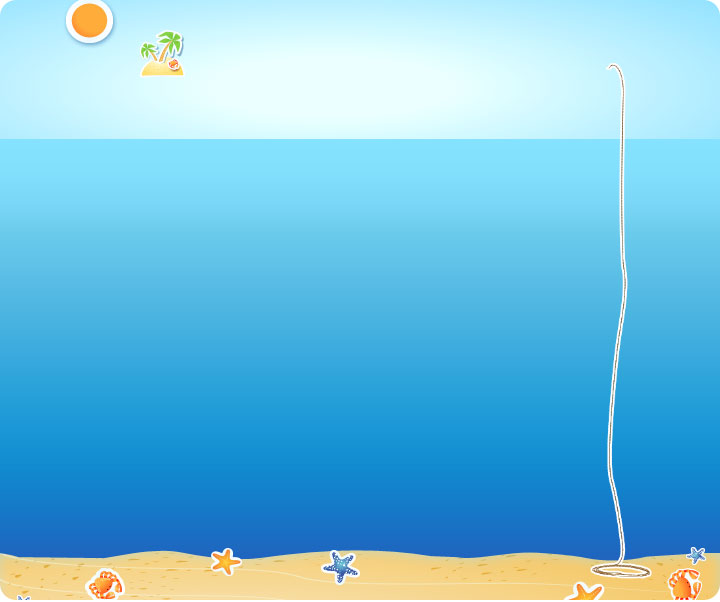
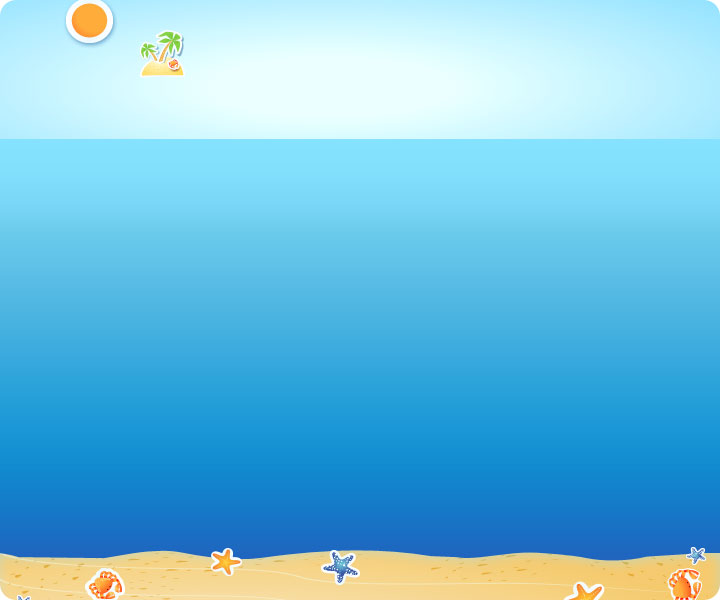
background

diff --git a/js/gameunit.js b/js/gameunit.js
@@ -1,12 +1,86 @@
-function gameUnit()
+function backgroundUnit()
 {
 	var newImage = function (path) {
 		var image = new Image();
 		image.src = path;
 		return image;
 	}
+
+	this.buffer = {}
+
 	this.wave1 = newImage('images/wave1.png');
 	this.wave2 = newImage('images/wave2.png');
 	this.wave3 = newImage('images/wave3.png');
+
+	this.cloud = newImage('images/cloud.png');
+	this.clouds = newImage('images/clouds.png');
+	this.clouds8 = newImage('images/clouds8.png');
+	this.cloudss = newImage('images/cloudss.png');
+
+	this.fishes75x50 = newImage('images/fishes75-50.png');
+	this.fishes75x50r = newImage('images/fishes75-50r.png');
+
+	this.fishes75x100 = newImage('images/fishes75-100.png');
+	this.fishes75x100r = newImage('images/fishes75-100r.png');
+
+	this.fishes50x75 = newImage('images/fishes50-75.png');
+	this.fishes50x75r = newImage('images/fishes50-75r.png');
+
+	this.fishes2 = newImage('images/fishes2.png');
+	this.fishes2r = newImage('images/fishes2r.png');
+
+
+	this.shipEmpty = newImage('images/ship-empty.png');
+	this.tros = newImage('images/tros.png');
+
+	this.fishXY = function(iterator, vx, vy, w, h)
+	{
+		this.x = Math.abs(iterator*vx % (w + 100) * 2 - (w + 100)) - 100;
+		this.y = Math.abs(iterator*vy % (h - 320) * 2 - (h - 320)) + 200;
+	}
+
+	this.renderBackground = function(ctx, iterator)
+	{
+		//var delta = (date.getSeconds() * 1000 + date.getMilliseconds())/ 10;
+		var waveDelta = Math.abs(iterator/2 % 25);
+
+		ctx.drawImage(this.wave1, waveDelta - 25, 66);
+		ctx.drawImage(this.wave2, -waveDelta, 80);
+		var cloudIterator = iterator + 1000;
+
+		ctx.drawImage(this.cloudss, cloudIterator/1.6 % (ctx.canvas.width + 150) - 75, 0);
+		ctx.drawImage(this.clouds, cloudIterator/1.4 % (ctx.canvas.width + 100) - 75, 5);
+		ctx.drawImage(this.cloud, cloudIterator/1.3 % (ctx.canvas.width + 100) - 75, 8);
+		ctx.drawImage(this.clouds, cloudIterator/1.2 % (ctx.canvas.width + 75) - 75, 15);
+		ctx.drawImage(this.clouds8, cloudIterator % (ctx.canvas.width + 75) - 75, 25);
+		ctx.drawImage(this.shipEmpty, 512, Math.abs(iterator/4 % 4 - 2));
+		ctx.drawImage(this.wave3, waveDelta - 25, 94);
+
+		var fishPosition = new this.fishXY(iterator + 300, .5, .3, ctx.canvas.width, ctx.canvas.height);
+		ctx.drawImage(this.buffer['fish0'] > fishPosition.x ? this.fishes75x50 : this.fishes75x50r, fishPosition.x, fishPosition.y);
+		this.buffer['fish0'] = fishPosition.x;
+
+		fishPosition = new this.fishXY(iterator, 1.5, .5, ctx.canvas.width, ctx.canvas.height);
+		ctx.drawImage(this.buffer['fish1'] > fishPosition.x ? this.fishes50x75 : this.fishes50x75r, fishPosition.x, fishPosition.y);
+		this.buffer['fish1'] = fishPosition.x;
+
+		fishPosition = new this.fishXY(iterator + 500, 1, .7, ctx.canvas.width, ctx.canvas.height);
+		ctx.drawImage(this.buffer['fish2'] > fishPosition.x ? this.fishes50x75 : this.fishes50x75r, fishPosition.x, fishPosition.y);
+		this.buffer['fish2'] = fishPosition.x;
+
+		fishPosition = new this.fishXY(iterator + 100, 2, .2, ctx.canvas.width, ctx.canvas.height);
+		ctx.drawImage(this.buffer['fish3'] > fishPosition.x ? this.fishes50x75 : this.fishes50x75r, fishPosition.x, fishPosition.y);
+		this.buffer['fish3'] = fishPosition.x;
+
+		fishPosition = new this.fishXY(iterator + 1000, .5, .3, ctx.canvas.width, ctx.canvas.height);
+		ctx.drawImage(this.buffer['fish4'] > fishPosition.x ? this.fishes75x100 : this.fishes75x100r, fishPosition.x, fishPosition.y);
+		this.buffer['fish4'] = fishPosition.x;
+
+		fishPosition = new this.fishXY(iterator + 1500, .2, .1, ctx.canvas.width, ctx.canvas.height);
+		ctx.drawImage(this.buffer['fish5'] > fishPosition.x ? this.fishes2 : this.fishes2r, fishPosition.x, fishPosition.y);
+		this.buffer['fish5'] = fishPosition.x;
+
+		ctx.drawImage(this.tros, 592, 64);
+	}
 }
 

diff --git a/index.html b/index.html
@@ -6,6 +6,7 @@
 <meta http-equiv="Content-Type" content="text/html; charset=UTF-8">
 <link rel="stylesheet" type="text/css" href="main.css" />
 <script language="javascript" src="js/gameunit.js" type="text/javascript"></script>
+<script language="javascript" src="js/game.js" type="text/javascript"></script>
 </head>
 <body>
 <script>
@@ -15,29 +16,62 @@
 window.onload = function()
 {
 	var iterator = 0;
-	var gu = new gameUnit();
-	var example = document.getElementById("gameCanvas");
-	var ctx = example.getContext('2d');  // Контекст холста
+	var bgu = new backgroundUnit();
+/*
+	var canva = document.getElementById("gameCanvas");
+	var gameContext = canva.getContext('2d');  // Контекст холста
+	gameContext.canvas.width = 716;
+	gameContext.canvas.height = 491;
+	gameContext.clearRect(0, 0, 716, 491);
+
+
+	var gameField = document.getElementById("gameCanvas");
+
+	bgu.cloud.onload = function() {
+		gameContext.clearRect(0, 0, 716, 491);
+		gameContext.drawImage(bgu.cloud, 10, 10, 10, 10);
+		gameContext.drawImage(bgu.cloud, 10, 10, 10, 10);
+		gameField.onclick = function(e){
+			//gameContext.save();
+			var base = document.getElementById("main");
+			if (!e) var e = window.event;
+			var x = document.body.scrollLeft + e.clientX - base.offsetLeft - this.offsetLeft;
+			var y = document.body.scrollTop + e.clientY - base.offsetTop - this.offsetTop;
+			console.log(bgu.cloud.width);
+			gameContext.drawImage(bgu.clouds, x, y);
+			//gameContext.restore();
+		}
+	};
+*/
+
+
+
+
+	var backCanvas = document.getElementById("backCanvas");
+	var ctx = backCanvas.getContext('2d');  // Контекст холста
 	ctx.canvas.width = 716;
 	ctx.canvas.height = 597;
 
 	setInterval(function(){
-		iterator++;
 		var date = new Date();
 		var w = ctx.canvas.width;
 		var h = ctx.canvas.height;
+		
 		ctx.clearRect(0, 0, w, h);
-		var delta = (date.getSeconds() * 1000 + date.getMilliseconds())/ 10;
-		var waveDelta = Math.abs(iterator/2 % 25);
-		ctx.drawImage(gu.wave1, waveDelta - 25, 66);
-		ctx.drawImage(gu.wave2, -waveDelta, 80);
-		ctx.drawImage(gu.wave3, waveDelta - 25, 94);
-	}, 50);
+		ctx.save();
+
+		bgu.renderBackground(ctx, iterator++)
+
+		ctx.restore();
+	}, 100);
+
+
 
 }
 </script>
 <div id="main">
 	<div id="tools">добавить водолаза удалить водолаза</div>
+	<canvas id="backCanvas">Обновите браузер</canvas>
 	<canvas id="gameCanvas">Обновите браузер</canvas>
 </div>
 </body>

diff --git a/main.css b/main.css
@@ -14,6 +14,7 @@ root {
 	height: 682px;
 	margin: 10px auto;
 	border: 1px solid #c0c0c0;
+	position: relative;
 	border-radius: 20px;
 	background:-moz-linear-gradient(top,  #02b1d0,  #014e96);
 }
@@ -24,11 +25,22 @@ root {
 	border: 1px solid red;
 }
 
-#gameCanvas {
+#backCanvas {
 	/*width: 716px;
 	height: 597px;
 	*/border: 1px solid red;
 	margin: 0px 20px 20px 20px;
 	border-radius: 15px;
 	background: url('images/back-clear.jpg');
+}
+
+#gameCanvas {
+	top: 170px;
+	width: 716px;
+	height: 491px;
+	left: 0px;
+	position: absolute;
+	border: 1px solid yellow;
+	margin: 0px 20px 20px 20px;
+	border-radius: 15px;
 }

diff --git a/js/game.js b/js/game.js
@@ -1,0 +1,22 @@
+/*
+function Game(ctx, units)
+{
+	var newImage = function (path) {
+		var image = new Image();
+		image.src = path;
+		return image;
+	}
+
+	var cloud = newImage('images/cloud.png');
+
+		gameField.onclick = function(e){
+			gameContext.save();
+			var base = document.getElementById("main");
+			if (!e) var e = window.event;
+			var x = document.body.scrollLeft + e.clientX - base.offsetLeft - this.offsetLeft;
+			var y = document.body.scrollTop + e.clientY - base.offsetTop - this.offsetTop;
+			gameContext.drawImage(bgu.cloud, x, y);
+			gameContext.restore();
+		}
+}
+*/
